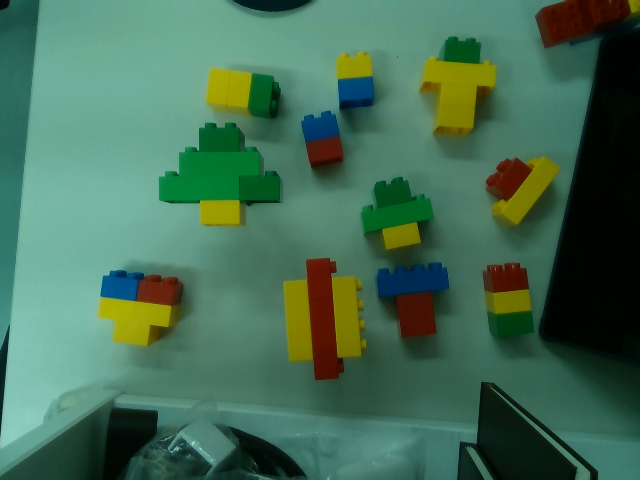
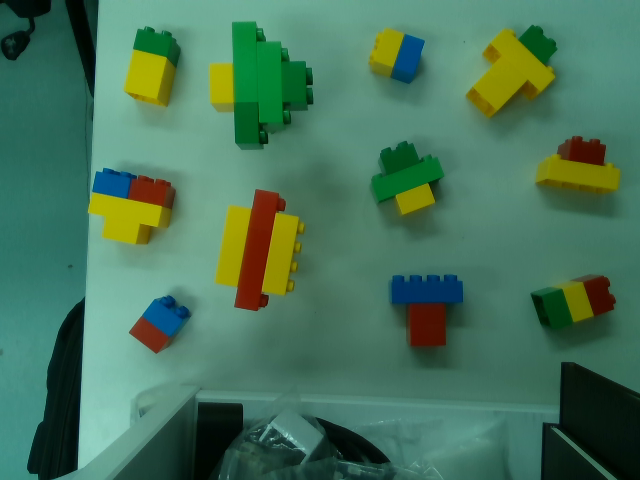
뎁스 마스킹 완료. 다만 정리가 필요해 보임

diff --git a/README.MD b/README.MD
@@ -128,3 +128,19 @@ component_info
 
 ---
 
+
+
+1. create_valid_depth_mask
+2. apply_depth_median_filter
+3. create_near_object_seed_mask
+
+4. convert_to_hsv
+5. create_duplo_hsv_mask
+
+6. clean_binary_mask
+7. create_fusion_seed_mask
+
+8. create_fusion_candidate_mask
+9. refine_candidate_mask
+10. extract_object_components
+11. analyze_object_basic